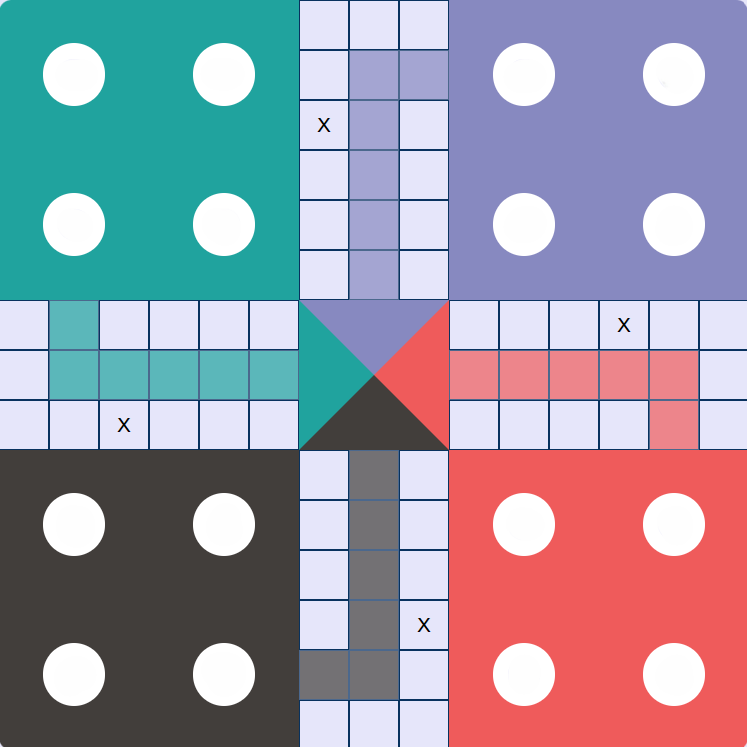
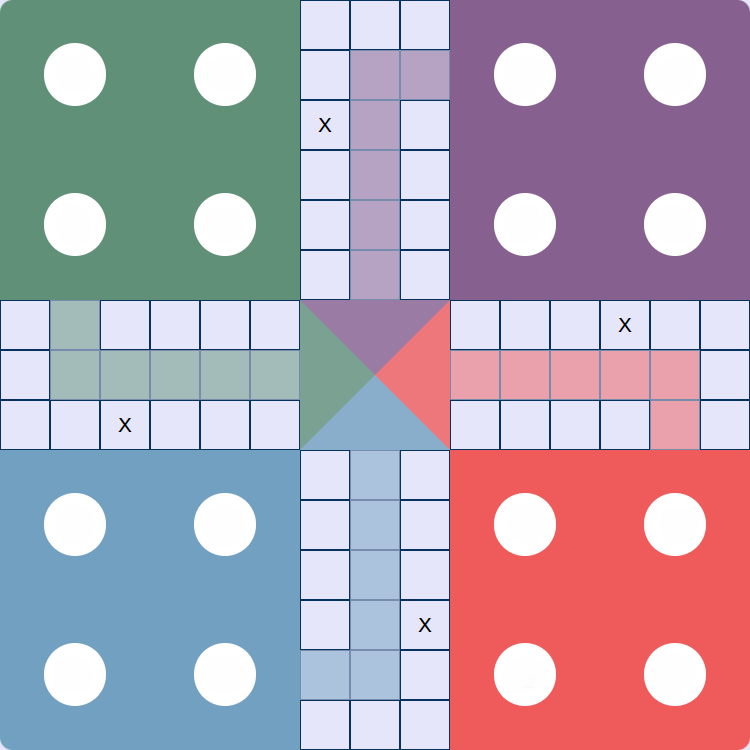
Changed player colors

diff --git a/src/components/PlayerPieces.jsx b/src/components/PlayerPieces.jsx
@@ -1,8 +1,37 @@
+import { useEffect } from "react";
 import "../styles/components/PlayerPieces.css";
-import { useSelector } from "react-redux";
+import { useDispatch, useSelector } from "react-redux";
+import { setPlayerArray } from "../redux/states/selectPlayersSlice";
+import { BASE_POSITIONS } from "../../logic/constants";
+import { UI } from "../../logic/UI";
 
 const PlayerPieces = () => {
   const players = useSelector((state) => state.players.players);
+  const dispatch = useDispatch();
+  // const playerPiecesElements = {
+  //   P1: document.querySelectorAll('[player-id="P1"].player-piece'),
+  //   P2: document.querySelectorAll('[player-id="P2"].player-piece'),
+  //   P3: document.querySelectorAll('[player-id="P3"].player-piece'),
+  //   P4: document.querySelectorAll('[player-id="P4"].player-piece'),
+  // };
+
+  // useEffect(() => {
+  //   console.log("Use effect ran");
+  //   playerPiecesElements.forEach(([key, value]) => {
+  //     dispatch(setPlayerArray({ player: key, array: value }));
+  //   });
+  // }, []);
+
+  // useEffect(() => {
+  //   setPiece;
+  // }, [playerPiecesElements]);
+
+  // const setPositions = async (divs, key, i, count) => {
+  //   await divs.push(
+  //     <div className="player-piece" player-id={key} piece={i} key={count}></div>
+  //   );
+  //   UI.setPiecePosition(key, i, BASE_POSITIONS[key][i]);
+  // };
 
   const renderDivs = (obj) => {
     const divs = [];
@@ -11,14 +40,7 @@ const PlayerPieces = () => {
       if (obj[key]) {
         for (let i = 0; i < 4; i++) {
           count++;
-          divs.push(
-            <div
-              className="player-piece"
-              player-id={key}
-              piece={i}
-              key={count}
-            ></div>
-          );
+          setPositions(divs, key, i, count);
         }
       }
     }

diff --git a/src/components/PlayerBase.jsx b/src/components/PlayerBase.jsx
@@ -1,8 +1,11 @@
+import { useEffect } from "react";
 import "../styles/components/PlayerBase.css";
 import { useDispatch, useSelector } from "react-redux";
 
 const PlayerBase = () => {
   const players = useSelector((state) => state.players.players);
+  const turn = useSelector((state) => state.currentTurn.currentTurn);
+  const numPlayers = useSelector((state) => state.numPlayers.numPlayers);
 
   const renderDivs = (obj) => {
     const divs = [];
@@ -17,6 +20,26 @@ const PlayerBase = () => {
     }
     return divs;
   };
+
+  useEffect(() => {
+    console.log("NumPlayers", numPlayers);
+    const players = document.querySelectorAll(".player-base");
+    console.log("Current Turn", turn);
+    console.log(players[turn].classList);
+    if (players) {
+      if (turn === 0) {
+        if (players[numPlayers - 1].classList.contains("highlight")) {
+          players[numPlayers - 1].classList.remove("highlight");
+        }
+      } else if (turn !== 0) {
+        players[turn - 1].classList.remove("highlight");
+      }
+      players[turn].classList.add("highlight");
+    } else {
+      return;
+    }
+  }, [turn]);
+
   return (
     <div className="player-bases">
       {renderDivs(players)}

diff --git a/logic/constants.js b/logic/constants.js
@@ -89,10 +89,10 @@ export const COORDINATES_MAP = {
   // BASE POSITIONS
 
   // P1
-  500: [0.95, 9.97],
-  501: [3.98, 9.97],
-  502: [0.95, 12.98],
-  503: [3.98, 12.98],
+  500: [1.1, 10.2],
+  501: [4.1, 10.2],
+  502: [1.1, 13.2],
+  503: [4.1, 13.2],
 
   // P2
   600: [10.01, 0.91],
@@ -101,10 +101,10 @@ export const COORDINATES_MAP = {
   603: [13.03, 3.94],
 
   //P3
-  700: [0.95, 0.91],
-  701: [3.98, 0.91],
-  702: [0.95, 3.94],
-  703: [3.98, 3.94],
+  700: [1.1, 1],
+  701: [4.1, 1],
+  702: [1.1, 4],
+  703: [4.1, 4],
 
   //P4
   800: [10.01, 9.97],
@@ -121,6 +121,7 @@ export const BASE_POSITIONS = {
   P1: [500, 501, 502, 503],
   P2: [600, 601, 602, 603],
   P3: [700, 701, 702, 703],
+  P4: [800, 801, 802, 803],
 };
 
 export const START_POSITIONS = {

diff --git a/src/styles/components/Start.css b/src/styles/components/Start.css
@@ -5,30 +5,30 @@
   justify-content: center;
   height: 100vh;
   width: 100vw;
-  gap: 60px;
+  gap: 30px;
 }
 
 .start-heading {
   display: flex;
   align-items: center;
   justify-content: center;
-  gap: 30px;
+  gap: 10px;
 }
 
 .start-heading img {
-  width: 100px;
-  height: 100px;
+  width: 50px;
+  height: 50px;
 }
 
 .start-btn {
   background-color: var(--clr-border);
-  padding: 1rem 2rem;
+  padding: 0.5rem 1rem;
   border-radius: 10px;
   color: white;
   display: flex;
   align-items: center;
   justify-content: center;
-  gap: 25px;
+  gap: 5px;
   letter-spacing: 0.1rem;
   animation: blink 1s infinite linear;
   cursor: pointer;
@@ -39,6 +39,6 @@
   }
 }
 .start-btn img {
-  width: 50px;
-  height: 50px;
+  width: 25px;
+  height: 25px;
 }

diff --git a/logic/UI.js b/logic/UI.js
@@ -6,6 +6,8 @@ const playerPieces = document.querySelector(".player-pieces");
 const playerPiecesElements = {
   P1: document.querySelectorAll('[player-id="P1"].player-piece'),
   P2: document.querySelectorAll('[player-id="P2"].player-piece'),
+  P3: document.querySelectorAll('[player-id="P3"].player-piece'),
+  P4: document.querySelectorAll('[player-id="P4"].player-piece'),
 };
 
 export class UI {
@@ -28,6 +30,7 @@ export class UI {
    * @param {Number} newPosition
    */
   static setPiecePosition(player, piece, newPosition) {
+    console.log("UI.setPiecePosition ran");
     if (!playerPiecesElements[player] || !playerPiecesElements[player][piece]) {
       console.error(
         `Player element of given player: ${player} and piece ${piece} not found`

diff --git a/src/components/Dice.jsx b/src/components/Dice.jsx
@@ -1,12 +1,21 @@
 import "../styles/components/Dice.css";
 
 import { useSelector, useDispatch } from "react-redux";
+import { incrementTurn } from "../redux/states/turnSlice";
 
 const Dice = () => {
+  const dispatch = useDispatch();
+  const numPlayers = useSelector((state) => state.numPlayers.numPlayers);
+  const nextTurn = () => {
+    dispatch(incrementTurn(numPlayers));
+  };
+
   return (
     <div className="dice-container">
       <div className="roll-btn-container">
-        <button className="btn btn-dice">Roll the dice</button>
+        <button className="btn btn-dice" onClick={nextTurn}>
+          Roll the dice
+        </button>
         <div className="dice-value"></div>
       </div>
       <div className="diceContainer">

diff --git a/src/redux/states/selectPlayersSlice.js b/src/redux/states/selectPlayersSlice.js
@@ -1,0 +1,26 @@
+import { createSlice } from "@reduxjs/toolkit";
+
+const initialState = {
+  playerPiecesElements: {
+    P1: [],
+    P2: [],
+    P3: [],
+    P4: [],
+  },
+};
+
+export const selectPlayersSlice = createSlice({
+  name: "playerPiecesElements",
+  initialState,
+  reducers: {
+    setPlayerArray: (state, action) => {
+      const { player, array } = action.payload;
+      state.playerPiecesElements[player] = array;
+    },
+  },
+});
+
+// Action creators are generated for each case reducer function
+export const { setPlayerArray } = selectPlayersSlice.actions;
+
+export default selectPlayersSlice.reducer;

diff --git a/src/redux/store.js b/src/redux/store.js
@@ -6,6 +6,7 @@ import setPlayersSlice from "./states/setPlayersSlice";
 import diceSlice from "./states/diceSlice";
 import diceStateSlice from "./states/diceStateSlice";
 import turnSlice from "./states/turnSlice";
+import selectPlayersSlice from "./states/selectPlayersSlice";
 
 export const store = configureStore({
   reducer: {
@@ -16,5 +17,6 @@ export const store = configureStore({
     diceValue: diceSlice,
     diceState: diceStateSlice,
     currentTurn: turnSlice,
+    playerPiecesElements: selectPlayersSlice,
   },
 });

diff --git a/src/App.jsx b/src/App.jsx
@@ -5,11 +5,14 @@ import SideBar from "./components/SideBar";
 import Start from "./components/Start";
 import Form from "./components/Form";
 import { useSelector } from "react-redux";
+import { useEffect } from "react";
 
 function App() {
   const startFlag = useSelector((state) => state.startFlag.startFlag);
   const formFlag = useSelector((state) => state.formFlag.formFlag);
   const mode = "mobile";
+
+  const currentTurn = useSelector((state) => state.currentTurn.currentTurn);
 
   return (
     <div className="app">

diff --git a/src/redux/states/turnSlice.js b/src/redux/states/turnSlice.js
@@ -9,7 +9,7 @@ export const turnSlice = createSlice({
   initialState,
   reducers: {
     incrementTurn: (state, action) => {
-      const numPlayers = action.payload.numPlayers;
+      const numPlayers = action.payload;
       let nextTurn = state.currentTurn + 1;
       if (nextTurn >= numPlayers) {
         nextTurn = 0;

diff --git a/src/styles/components/PlayerPieces.css b/src/styles/components/PlayerPieces.css
@@ -4,8 +4,8 @@
 }
 
 .player-piece {
-  width: 3%;
-  height: 3%;
+  width: 5%;
+  height: 5%;
   border: 1px solid black;
   border-radius: 50%;
   position: absolute;
